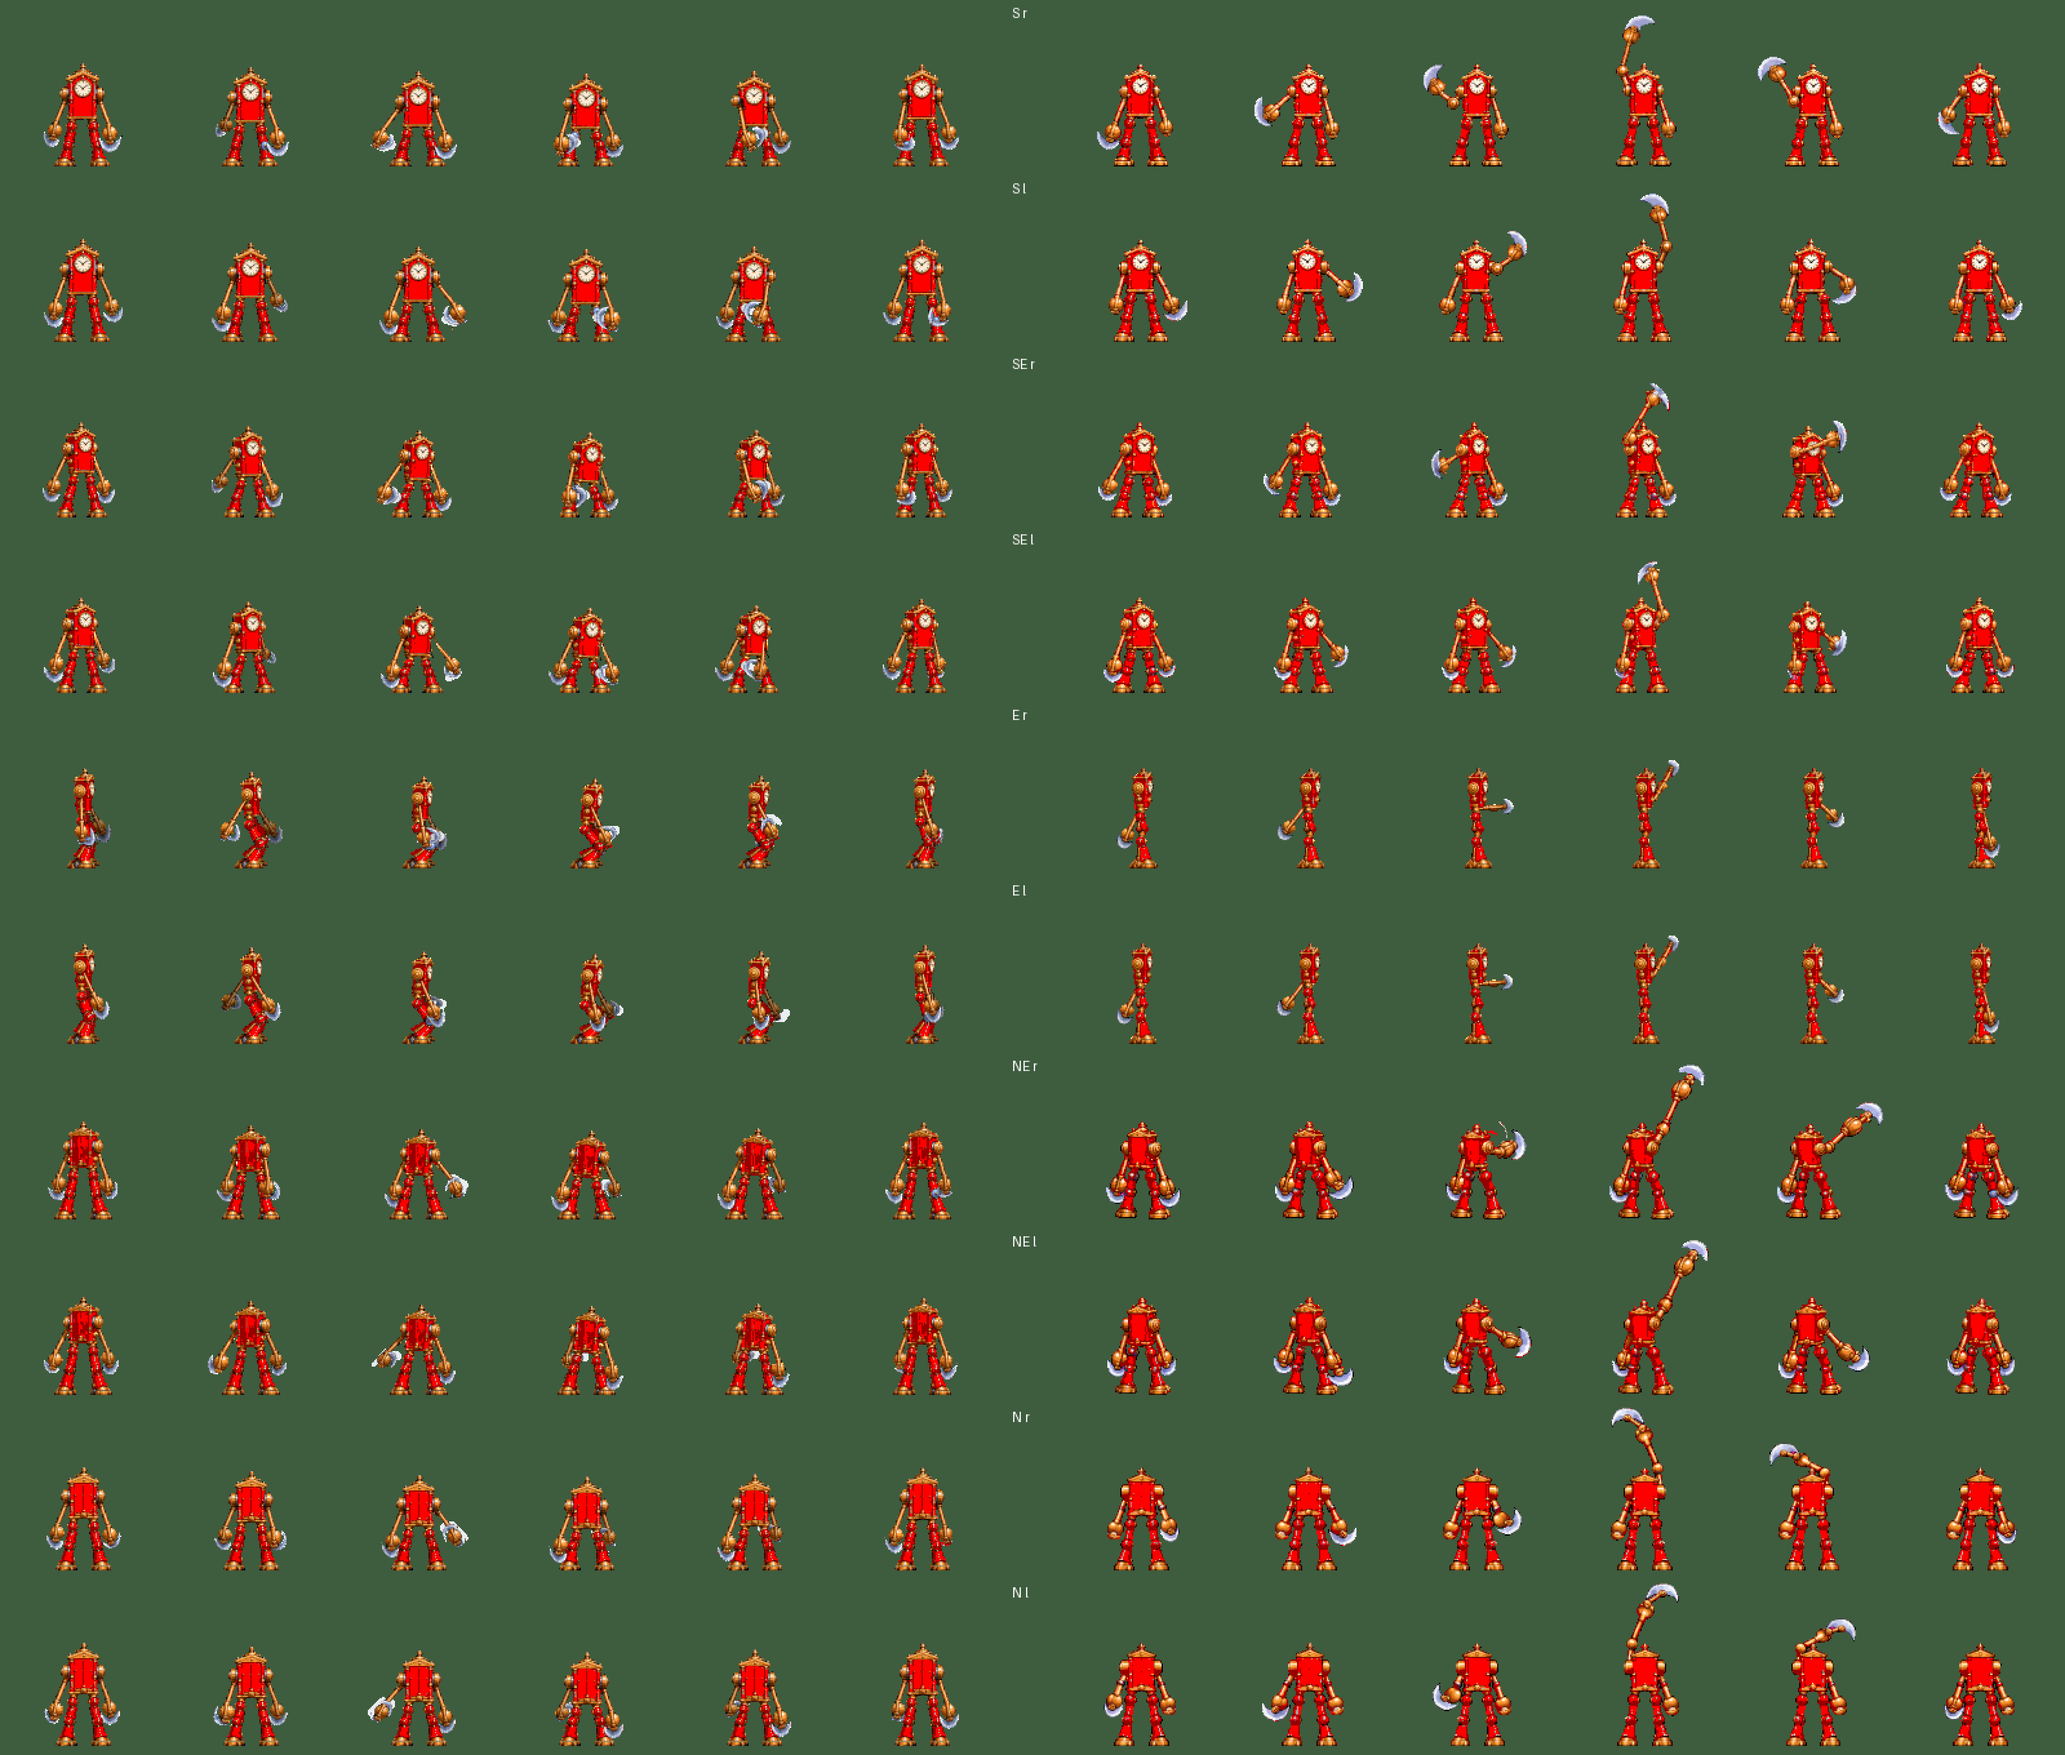
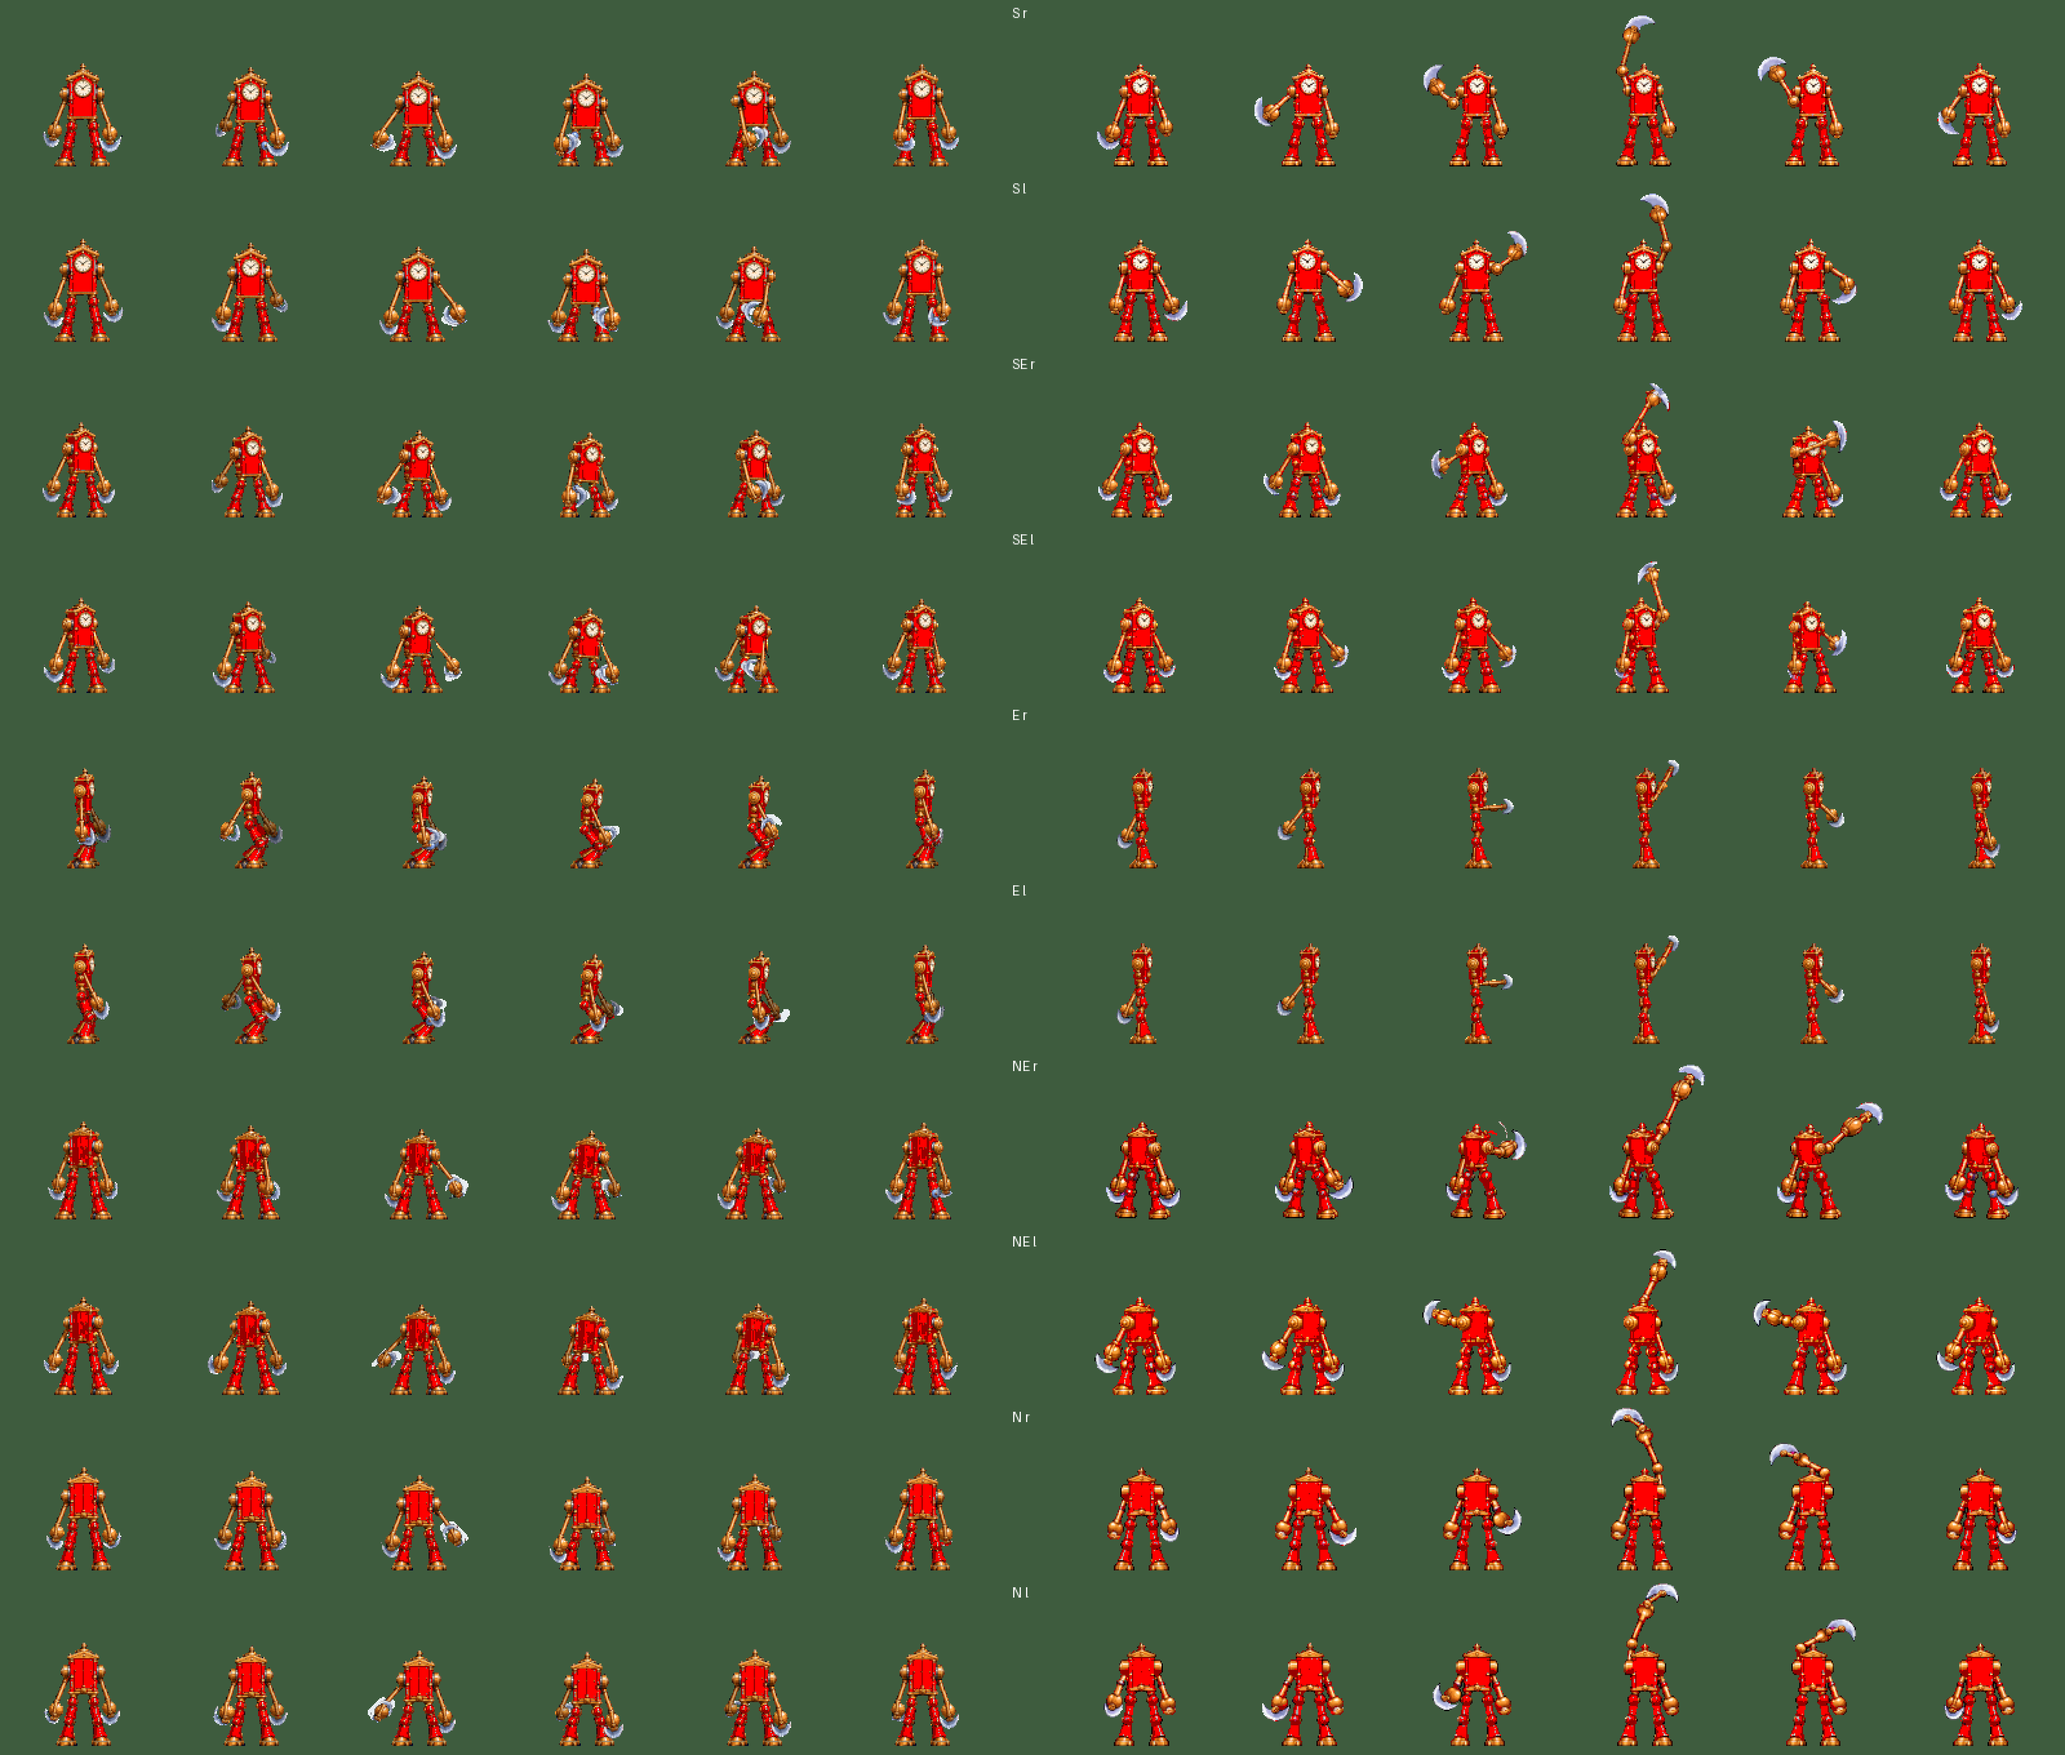
0.38.21: the Pendulum's NE high swing on the left arm from the owner's own sheet (pendulum_high_swing_ne_left_chatgpt.png; import_high_swing.py SHEET_ARM): every view alternates arms
Claude-Session: https://claude.ai/code/session_01NtmEZhP1uA8k4DLQ7BYfMz

diff --git a/tools/pendulum_guide/import_high_swing.py b/tools/pendulum_guide/import_high_swing.py
@@ -43,6 +43,9 @@ SRC = 'art/redraws/pendulum_high_swing_%s_chatgpt.png'
 # view -> (sheet, rows) where the owner replaced a sheet: E v2 is ONE row of 6 in side profile (the first E sheet's figures
 # were hallucinated); the far arm is hidden behind the body, so the one row serves both arms.
 SHEET = {'e': ('art/redraws/pendulum_high_swing_e_v2_chatgpt.png', 1)}
+# one ARM from its own sheet (one row of 6): NE's left arm (the owner's 2026-11-15 21:50 redo: the NE sheet swung the
+# viewer's right arm in both rows; this sheet swings the left, its frame 4 fixed by ChatGPT after a three-armed first try)
+SHEET_ARM = {('ne', 'l'): 'art/redraws/pendulum_high_swing_ne_left_chatgpt.png'}
 DST = 'assets/units/pendulum/'
 VIEWS = ['s', 'se', 'e', 'ne', 'n']
 KEY = 60             # magenta-ness under this: the figure (ChatGPT's pink motion smears, ~60-160, stay out)
@@ -70,8 +73,8 @@ ROWS['s']['l'] = [(1, 0, False), (0, 1, True), (1, 2, False), (1, 3, False), (1,
 # SE: the bottom row's 3rd frame reaches out with the viewer's LEFT arm (wrong one; SE is not symmetric, so no mirror):
 # its 2nd frame (the telegraph) is held one frame longer instead.
 ROWS['se']['l'] = [(1, 0, False), (1, 1, False), (1, 1, False), (1, 3, False), (1, 4, False), (1, 5, False)]
-# NE: both rows swing the viewer's RIGHT arm (attack_r's). Mirroring would turn the body into the NW view for the length of
-# the blow, so the bottom row is kept as drawn: in NE both high swings are on the same arm (a choice, docs/pendulum_air.md).
+# NE: both rows of its sheet swing the viewer's RIGHT arm (attack_r's): attack_hi_r takes the top row; attack_hi_l comes
+# from its own one-row sheet (SHEET_ARM).
 # N (back, symmetric): the top row swings the viewer's LEFT arm (attack_l's in N) and the bottom row mixes both arms: the
 # top row is attack_hi_l as drawn and attack_hi_r is the same row mirrored.
 ROWS['e'] = {'r': TOP, 'l': TOP}
@@ -282,6 +285,13 @@ def main():
         rgb, fig = key_sheet(rgb)
         figs = [figures(rgb, fig, a, b) for a, b in bands(fig, nrows)]
         for arm in ('r', 'l'):
+            if (v, arm) in SHEET_ARM:
+                argb = np.array(Image.open(SHEET_ARM[(v, arm)]).convert('RGB')).astype(int)
+                argb, afig = key_sheet(argb)
+                afigs = [figures(argb, afig, a, b) for a, b in bands(afig, 1)]
+                frames = [(afigs[0][c][0], afigs[0][c][1], False) for c in range(6)]
+                rows[(v, arm)] = build_row(frames, v, arm)
+                continue
             frames = [(figs[r][c][0], figs[r][c][1], mir) for r, c, mir in ROWS[v][arm]]
             rows[(v, arm)] = build_row(frames, v, arm)
     up = max(top_needed(r, s, c) for r, s, c in rows.values())

diff --git a/docs/pendulum_air.md b/docs/pendulum_air.md
@@ -88,9 +88,9 @@ Choices made at the import (for the owner):
   there (S is symmetric).
 - **SE**: the bottom row's 3rd frame reaches out with the wrong arm and SE is not symmetric: its 2nd frame (the
   telegraph) is held one frame longer instead.
-- **NE**: both rows swing the viewer's RIGHT arm (attack_r's). Mirroring would show the NW body for the length of the
-  blow, so the bottom row is kept as drawn: in NE both high swings are on the same arm. A ChatGPT redo of the NE LEFT arm
-  (the viewer's left) would fix it (same prompt, art/redraws/pendulum_high_swing_ne_chatgpt.png's top row as reference).
+- **NE**: both rows of its sheet swing the viewer's RIGHT arm (attack_r's): attack_hi_r takes the top row. attack_hi_l comes
+  from its own one-row sheet, art/redraws/pendulum_high_swing_ne_left_chatgpt.png (the owner's redo, 2026-11-15 21:50; its
+  frame 4 had three arms in ChatGPT's first try and was fixed in the same chat), via SHEET_ARM in the import tool.
 - **N**: the top row swings the viewer's LEFT arm (attack_l's in N) and the bottom row mixes both arms: attack_hi_l is the
   top row and attack_hi_r the same row mirrored (N is symmetric from behind).
 - **E**: one row for both arms (the far arm is hidden behind the body).

diff --git a/CLAUDE.md b/CLAUDE.md
@@ -39,8 +39,8 @@
 - PENDULUM HIGH SWING (owner's ChatGPT sheets; job pendulum-high-swing, 0.38.16, docs/pendulum_air.md "The HIGH SWING",
   tools/pendulum_guide/import_high_swing.py, pictures docs/shots/pendulum_air/high_swing/): at a FLYER the Pendulum plays
   attack_hi_r / attack_hi_l (130 x 136 cells, feet where the 91-px strips have them; Pendulum.HIGH added to Unit.arm as
-  the wind-up starts), the blade over its head on the same hit frame; ground targets keep the low sweep. Open: in NE both
-  hi strips swing the viewer's right arm (ChatGPT drew it so; a redo of the NE left arm would fix it).
+  the wind-up starts), the blade over its head on the same hit frame; ground targets keep the low sweep. NE's left arm from its
+  own sheet (the owner's redo 2026-11-15 21:50, pendulum_high_swing_ne_left_chatgpt.png, SHEET_ARM): every view alternates arms.
 - BROOD ROOTMAW SPOTS (owner DECIDED 2026-11-15: the Brood keeps the only radius economy, made fair and easy; job
   brood-rootmaw-spots, 0.38.14, docs/brood_rootmaw_spots.md, scripts/rootmaw_spots.gd RootmawSpots, tools/test_rootmaw_spots.gd,
   tools/measure_rootmaw_fit.gd, pictures docs/shots/rootmaw_spots/): a COUNT (Defs.NB maws_queen 3, maws_turtle 2; ROOTMAWS n/3

diff --git a/README.md b/README.md
@@ -2,7 +2,7 @@
 
 *(the game was called Holdfast until November 2026, but that name belongs to another game; the old address, holdfastrts.github.io/Holdfast/, stops working once the organization is renamed)*
 
-**Play in your browser (version 0.38.20): https://triumviwar.github.io/**
+**Play in your browser (version 0.38.21): https://triumviwar.github.io/**
 
 **Windows program: https://triumviwar.github.io/Triumviwar_windows.zip** (rebuilt on every push; unzip it and run Triumviwar.exe; if Windows warns "Windows protected your PC", click More info, then Run anyway)
 
